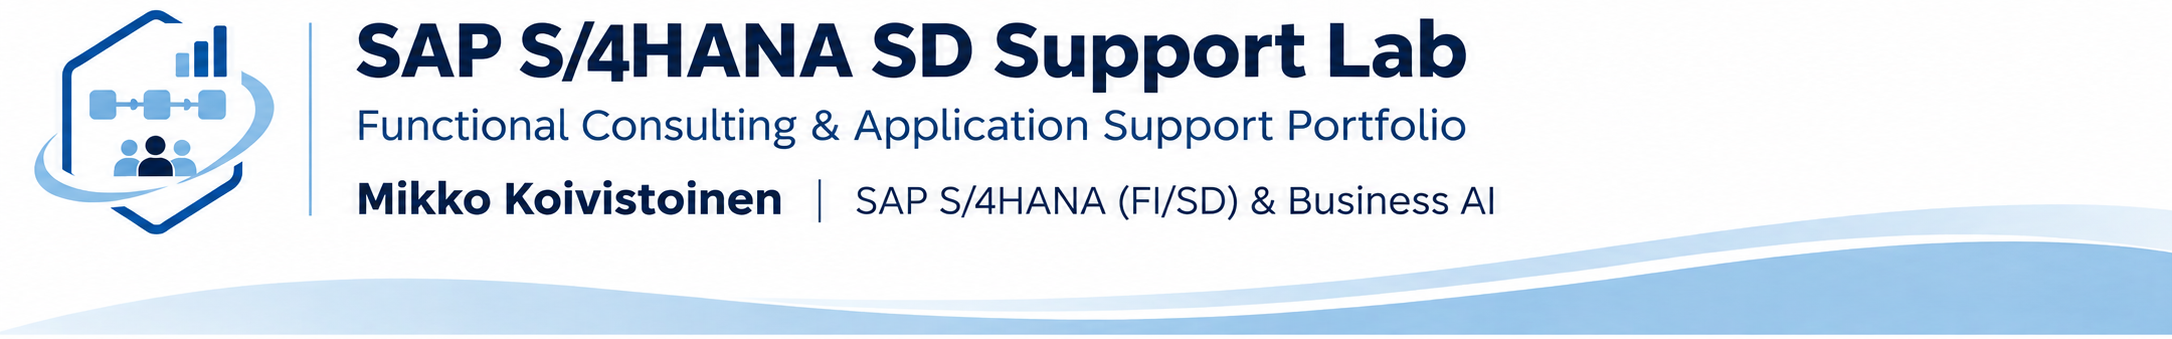
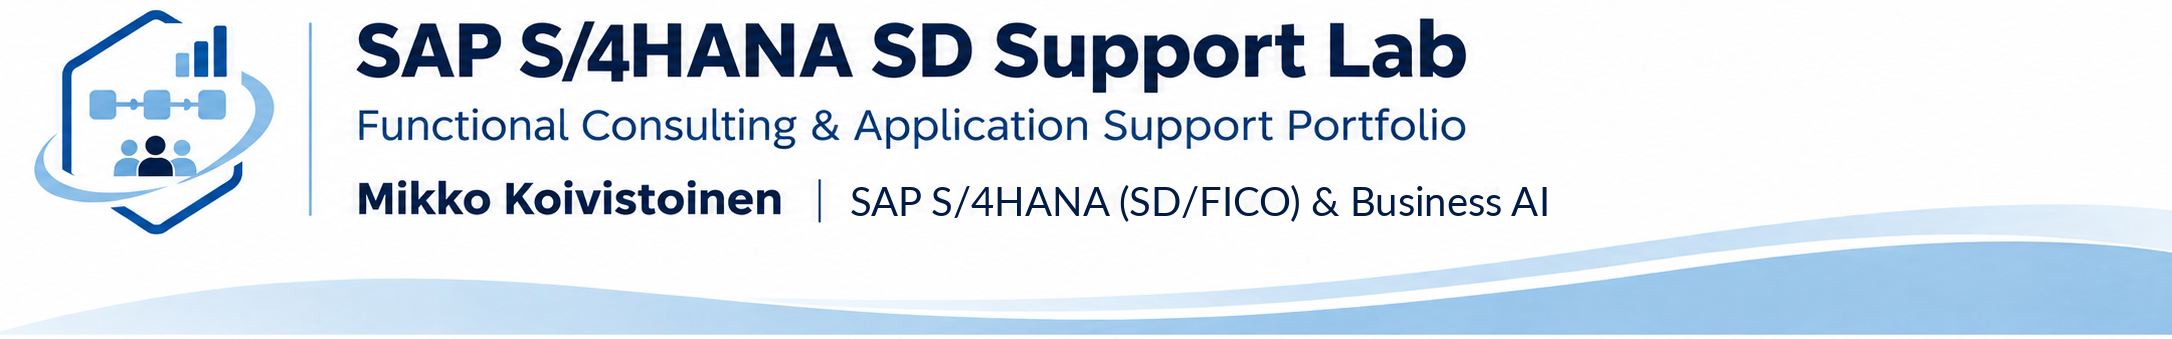
Add files via upload

Changed region(s): [[0.3702, 0.531, 0.7095, 0.649]]

diff --git a/README.md b/README.md
@@ -2,7 +2,7 @@
 
 SAP-certified professional with over 30 years of international industrial business experience, including B2B sales, project sales, global key account management, and business management. This background provides the practical business-process perspective behind the SAP SD portfolio.
 
-<strong>SAP Certifications:</strong> S/4HANA Sales (C_TS462) · Financial Accounting (C_TS4FI) · Business AI Platform Solution Architect (C_BAIPA) · Joule Studio Developer (C_JSD)
+<strong>SAP Certifications:</strong> S/4HANA Sales (C_TS462) · Financial Accounting (C_TS4FI) · Management Accounting (C_TS4CO) · Business AI Platform Solution Architect (C_BAIPA) · Joule Studio Developer (C_JSD)
 
 **This README has two parts:**
 
@@ -302,6 +302,7 @@ This experience forms the business-process perspective behind the SAP SD portfol
 
 - SAP S/4HANA Cloud Private Edition — Sales (C_TS462)
 - SAP S/4HANA Cloud Private Edition — Financial Accounting (C_TS4FI)
+- SAP S/4HANA Cloud Private Edition — Management Accounting (C_TS4CO)
 - SAP Business AI Platform — Solution Architect (C_BAIPA)
 - SAP Joule Studio Developer (C_JSD)
 
@@ -311,6 +312,7 @@ Independent SAP S/4HANA consulting and contracting opportunities, particularly i
 
 - SAP SD application support
 - SAP SD functional consulting
+- SAP FICO functional consulting and business-process analysis
 - Implementation support
 - Functional testing and validation
 - Order-to-cash process improvement
